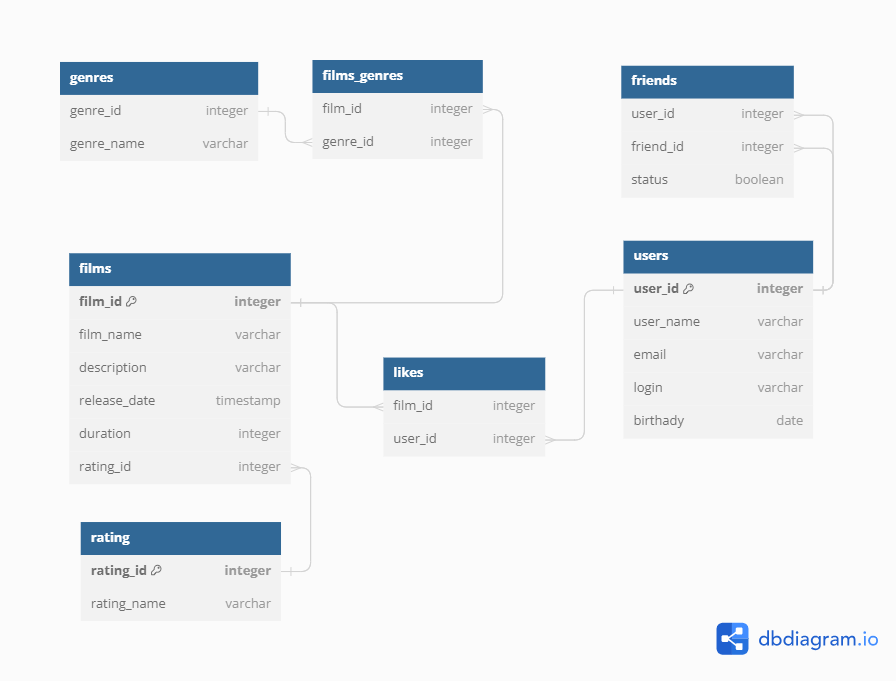
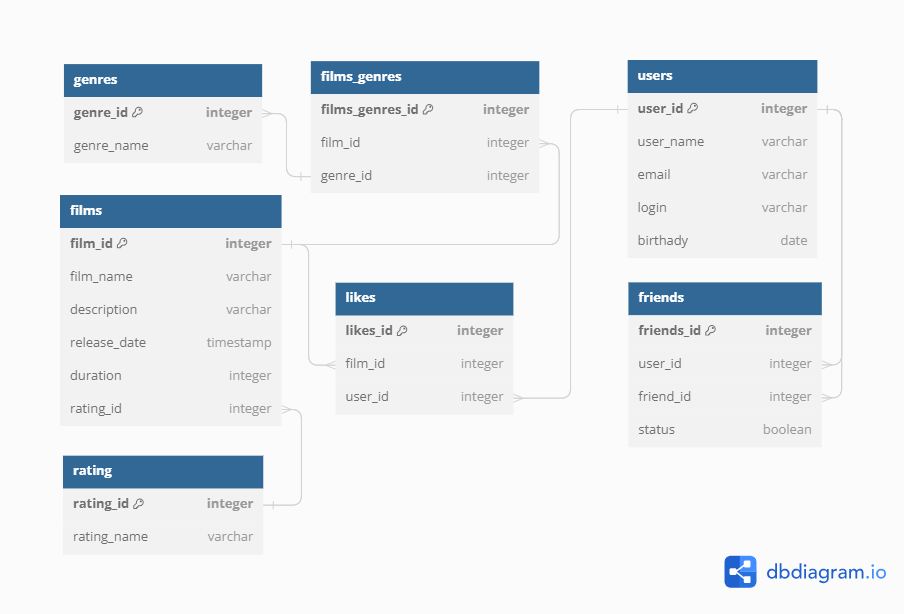
feat : added ER diagramm

diff --git a/README.md b/README.md
@@ -4,12 +4,77 @@ Template repository for Filmorate project.
 ## ER Diagramm of filmorate project
 ![ER Diagramm of filmorate project](/ER_diagramm/filmorate.png)
 
+
+
+## ER Diagramm code
+https://dbdiagram.io/d 
+
+```
+// Use DBML to define your database structure
+// Docs: https://dbml.dbdiagram.io/docs
+
+Table users {
+  user_id integer [primary key]
+  user_name varchar
+  email varchar
+  login varchar
+  birthady date
+}
+
+Table films {
+  film_id integer [primary key]
+  film_name varchar
+  description varchar
+  release_date timestamp
+  duration integer
+  rating_id integer
+}
+
+Table likes {
+  likes_id integer [primary key]
+  film_id integer [ref: > films.film_id]
+  user_id integer [ref: > users.user_id]
+}
+
+Table friends {
+  friends_id integer [primary key]
+  user_id integer
+  friend_id integer
+  status boolean
+}
+
+Table rating {
+  rating_id integer [primary key]
+  rating_name varchar
+}
+
+Table films_genres {
+  films_genres_id integer [primary key]
+  film_id integer 
+  genre_id integer
+}
+
+Table genres {
+  genre_id integer [primary key]
+  genre_name varchar
+}
+
+//Ref: likes.user_id > users.user_id // many-to-one
+//Ref: likes.film_id > films.film_id // many-to-one
+Ref: users.user_id < friends.user_id // one-to-many
+Ref: users.user_id < friends.friend_id // one-to-many
+Ref: films.rating_id > rating.rating_id // many-to-one
+Ref: films_genres.film_id > films.film_id // many-to-one
+Ref: genres.genre_id > films_genres.genre_id // many-to-one
+```
+
+
 ## Query Examples
 ### Getting Film names and genres for user id = 13
 
 ```roomsql
 
-select u.user_name,
+select u.user_name,0
     f.film_name,
     g.genre_name        
  from users u 
